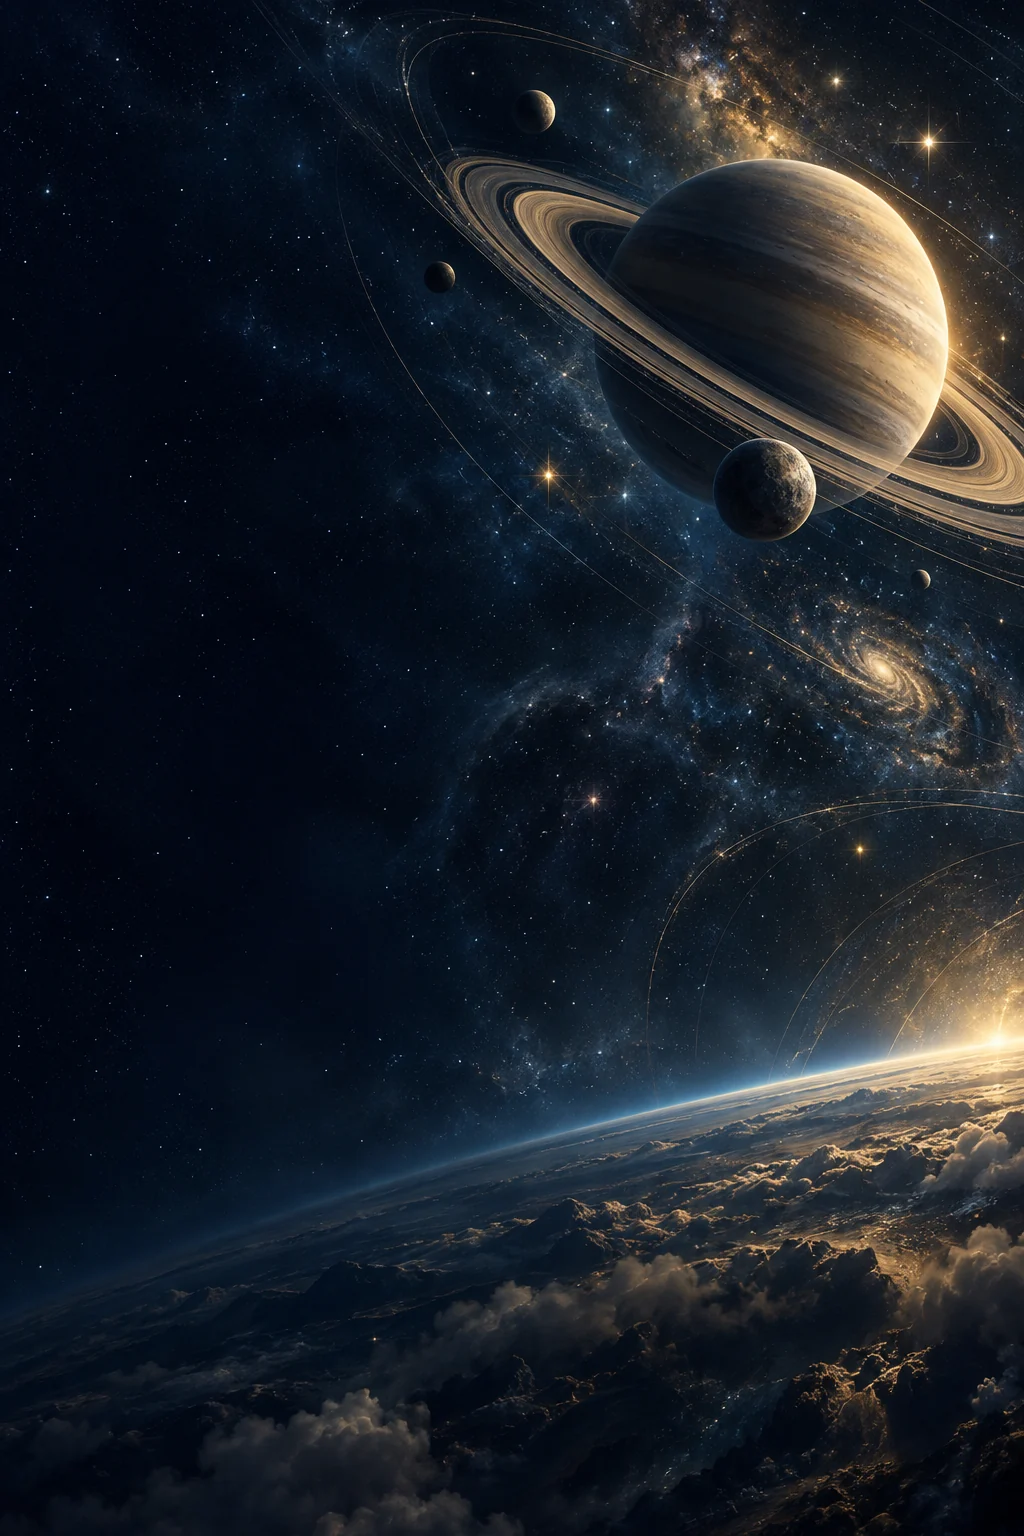
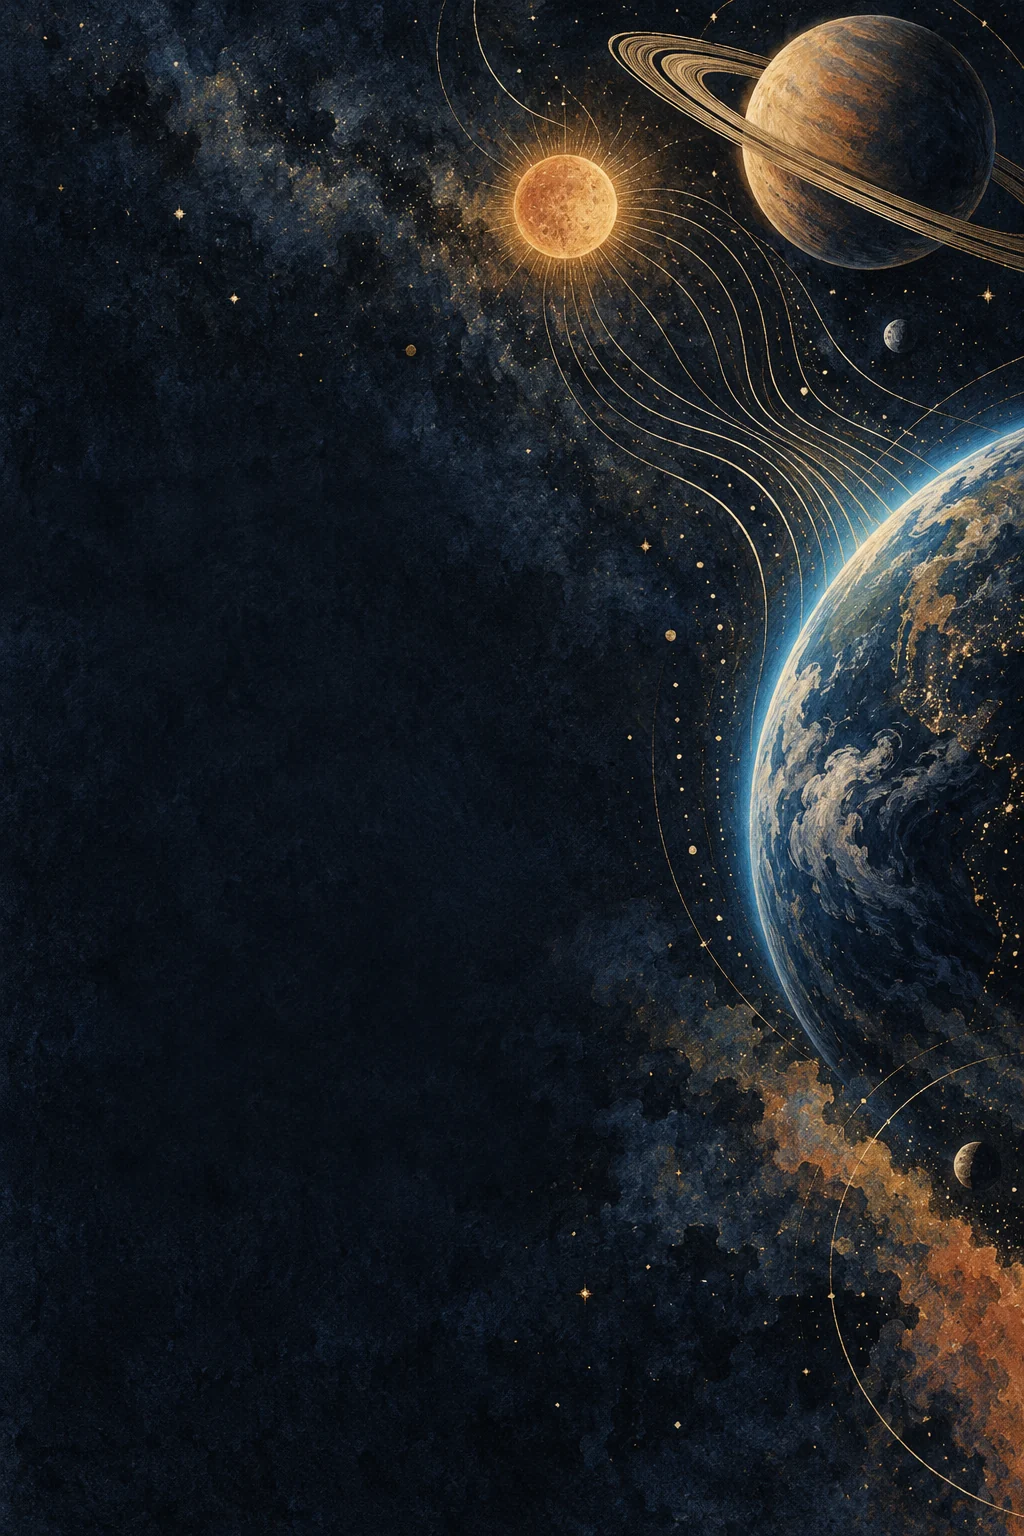
Refresh thematic backgrounds and improve light-theme actions

diff --git a/consumer_overview_v1.css b/consumer_overview_v1.css
@@ -104,3 +104,6 @@ body.fp434-app .nr-overview select,body.fp434-app .nr-overview button:not([aria-
 @media(min-width:900px){body.fp434-app{background-size:100% auto!important}body.fp434-app .nr-route-head{min-height:290px}body.fp434-app .nr-route-head>div,body.fp434-app .nr-route-head>p{max-width:55%}}
 @media(max-width:380px){body.fp434-app .nr-route-head{padding:20px 14px!important;min-height:235px}body.fp434-app .nr-route-head>div,body.fp434-app .nr-route-head>p{max-width:72%}body.fp434-app .nr-route-head h1{font-size:25px!important}}
 @media(prefers-reduced-transparency:reduce){body.fp434-app{--nr-glass:var(--nr-panel);--nr-glass-soft:var(--nr-panel)}body.fp434-app header,body.fp434-app #mobileNav{backdrop-filter:none}}
+
+/* Keep secondary actions readable over decorative scenes in both themes. */
+body.fp434-app .nr-btn.secondary{background:light-dark(#fffdf8,#081320)!important;color:light-dark(#694b16,#f5d58d)!important;border-color:light-dark(#8a682c,#b79a61)!important}

diff --git a/sw.js b/sw.js
@@ -1,7 +1,7 @@
 importScripts('./runtime_diagnostics_v1.js');
 // G-Index service worker. HTML/data are network-first; static shell is cache-first.
 // Bump CACHE_VERSION whenever index.html or a cached shell asset changes.
-const CACHE_VERSION = 'fp469-v63-panchanga-two-publications'; // planning copy matches the available functionality
+const CACHE_VERSION = 'fp469-v64-editorial-backgrounds'; // planning copy matches the available functionality
 const CACHE_PREFIX = 'gindex-'; // G-Index cache namespace; do not remove the prefix.
 const SHELL_CACHE = `${CACHE_PREFIX}shell-${CACHE_VERSION}`;
 const DATA_CACHE = `${CACHE_PREFIX}data-${CACHE_VERSION}`;
